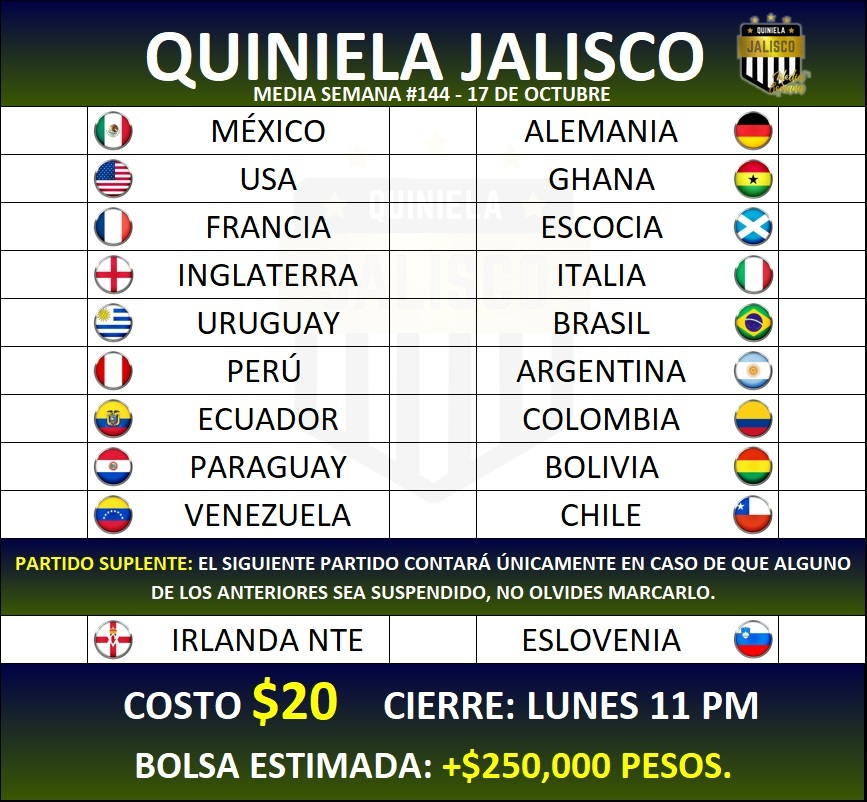
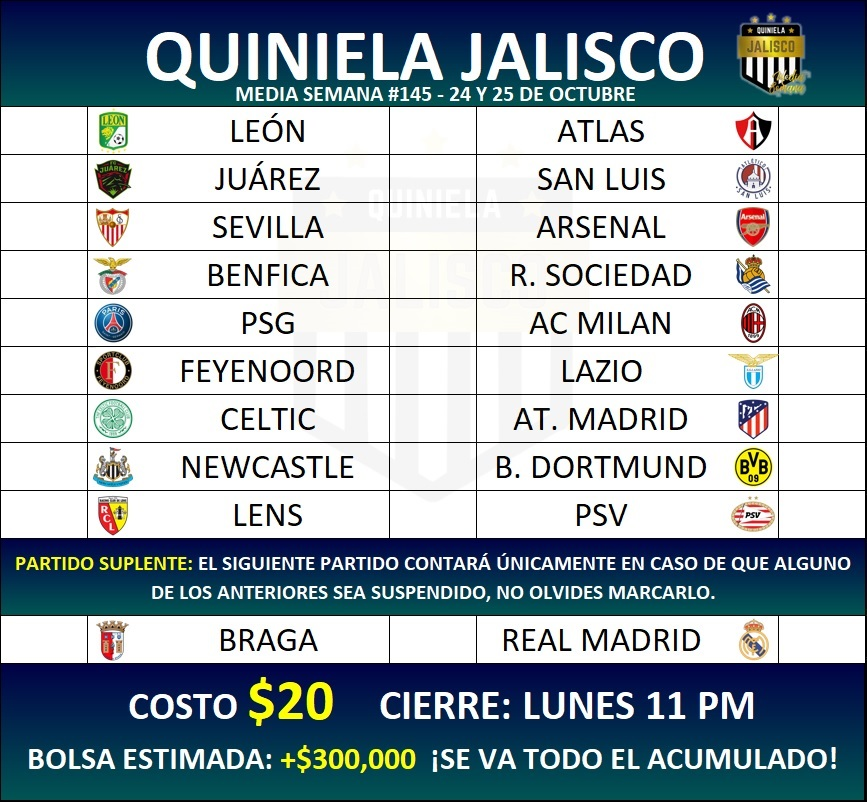
Media Semana #145

diff --git a/MediaSemana/stylesmSusp.css b/MediaSemana/stylesmSusp.css
@@ -93,8 +93,8 @@ body{
     margin-top: 9%;
     border: solid 1px black;
     border-radius: 0 0 14px 14px;
-    background: -webkit-linear-gradient(1turn, rgb(0,8,65)  ,rgb(34,52,30) 80%);
-    background: linear-gradient(1turn, rgb(0,8,65)  ,rgb(34,52,30) 80%);
+    background: -webkit-linear-gradient(1turn, rgb(0,8,65)  ,rgb(0,40,76) 80%);
+    background: linear-gradient(1turn, rgb(0,8,65)  ,rgb(0,40,76) 80%);
 }
 
 .text-lg{
@@ -289,7 +289,7 @@ h6{
 }
 
 #cantidad:before{
-    content:' +$250,000 pesos';
+    content:' +$300,000 pesos \A ¡Se reparte todo el acumulado!';
     color: yellow;
     white-space:pre;
 }
